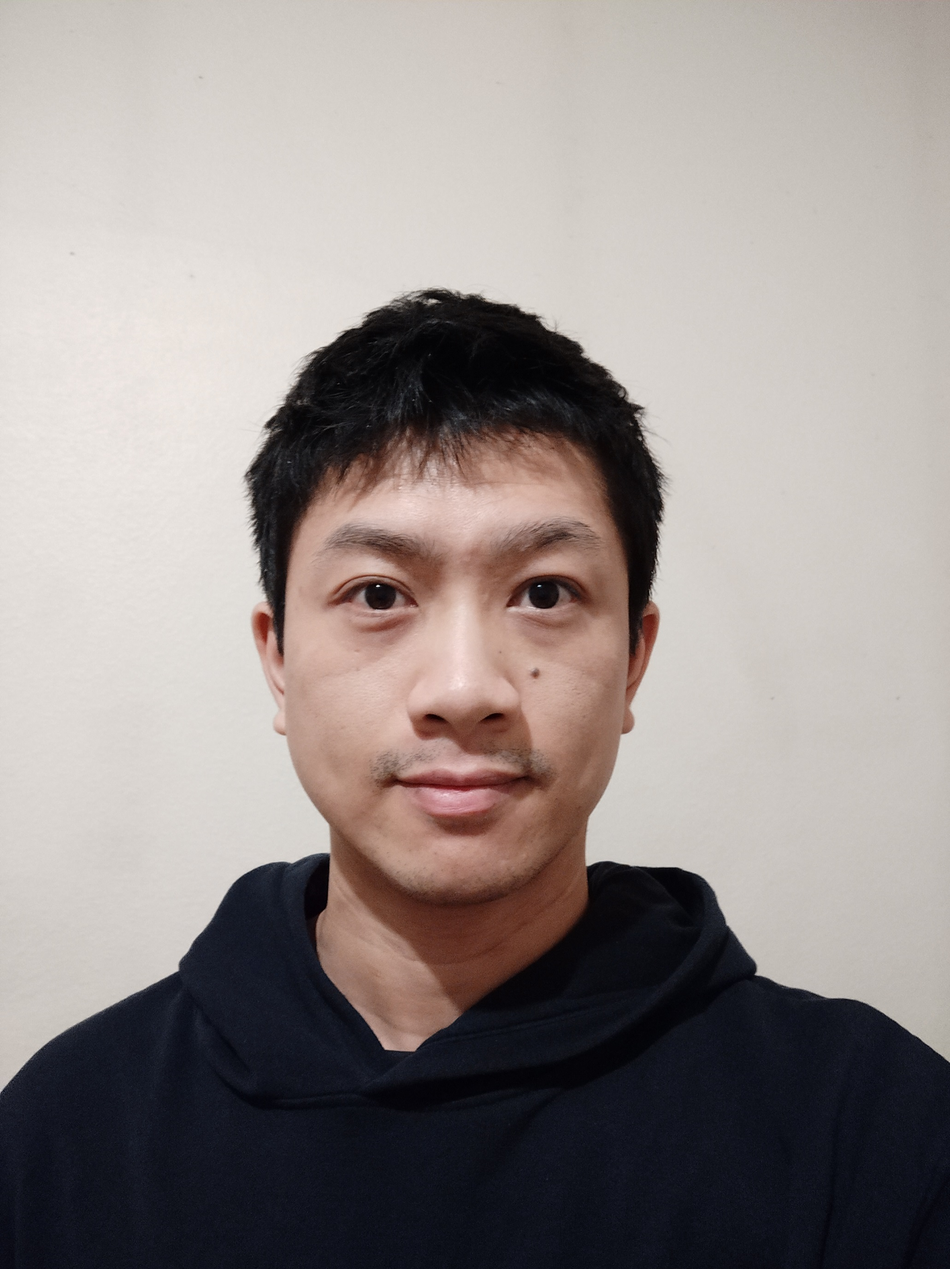
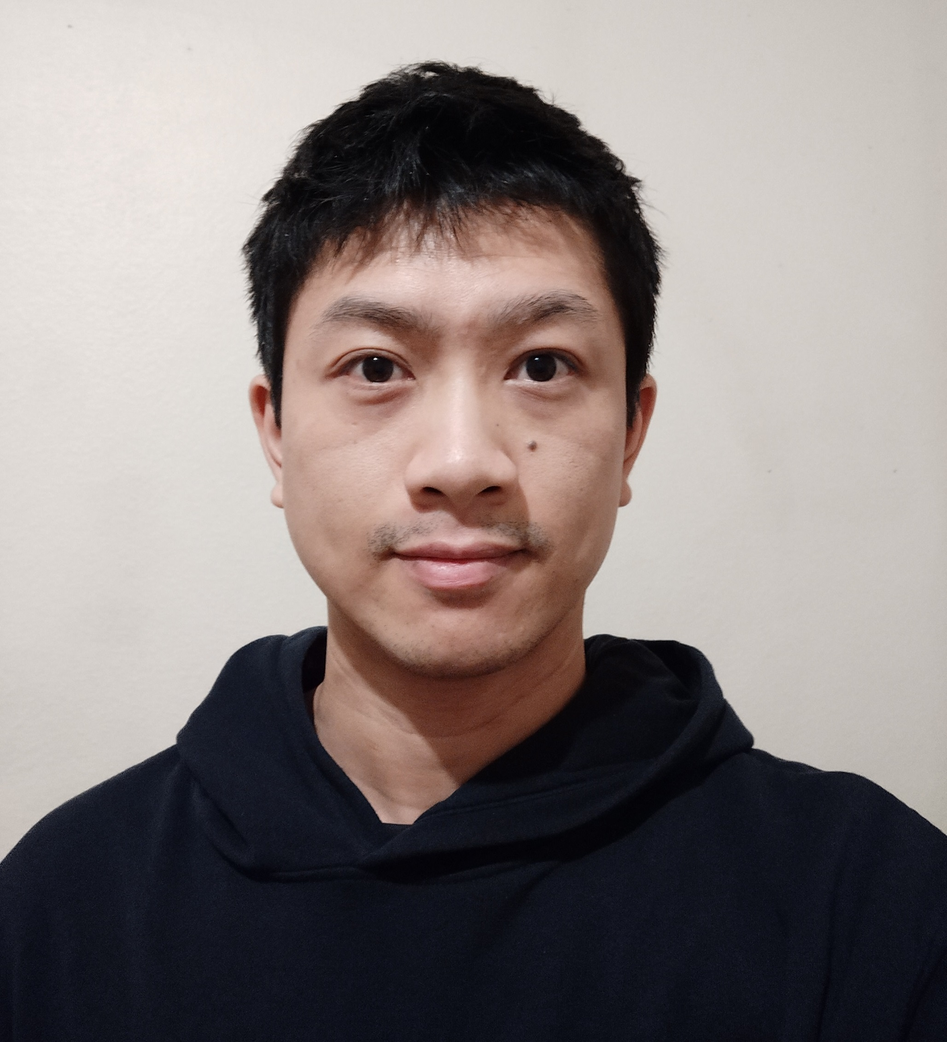
fix: responsiveness of the photo

Changed region(s): [[0.0, 0.0619, 1.0, 0.8669], [0.6226, 0.0, 1.0, 0.0619], [0.0, 0.0, 0.2179, 0.0929]]

diff --git a/src/components/photo.tsx b/src/components/photo.tsx
@@ -1,28 +1,43 @@
-import { StaticImage } from "gatsby-plugin-image"
 import React from "react"
-import { breakpointValues } from "../theme/breakpoints"
+import styled from "styled-components"
+import breakpoints from "../theme/breakpoints"
 import shadow from "../theme/shadow"
-import useScreenSize from "./custom-hooks/use-screen-size"
+import image from "../images/photo-pro.jpg"
+import { useLanguage } from "./provider-language"
+import { PageContent } from "../types/types"
+import shapes from "../theme/shapes"
 
-export default function Photo() {
-  const screenWidth = useScreenSize().width
-
-  return (
-    <React.Fragment>
-      <StaticImage src="../images/photo-pro.jpg" alt="photo of Truong Huy" style={style_image(screenWidth)} />
-    </React.Fragment>
-  )
+type PhotoProps = {
+  primaryContent: boolean
 }
 
-const style_image = (screenWidth: number) => {
-  const display = screenWidth >= breakpointValues.lg ? "none" : "flex"
-  const size = "180px"
-  return {
-    margin: "auto",
-    width: size,
-    height: size,
-    borderRadius: "6px",
-    boxShadow: shadow[2],
-    display,
+export default function Photo({ primaryContent }: PhotoProps) {
+  const lang = useLanguage()
+
+  return <Img src={image} alt={content.alt[lang]} primaryContent={primaryContent} />
+}
+
+const content: PageContent = {
+  alt: {
+    fr: "photo de Truong Huy",
+    en: "photo of Truong Huy",
+  },
+}
+
+type ImgProps = {
+  primaryContent: boolean
+}
+
+const Img = styled.img<ImgProps>`
+  width: 180px;
+  height: 200px;
+  display: ${(props) => (props.primaryContent ? "flex" : "none")};
+  border-radius: ${shapes.borderRadius};
+  box-shadow: ${shadow[2]};
+  border: 1px solid white;
+  ${breakpoints.lg} {
+    width: 200px;
+    height: 220px;
+    display: ${(props) => (props.primaryContent ? "none" : "flex")};
   }
-}
+`

diff --git a/src/components/header.tsx b/src/components/header.tsx
@@ -1,7 +1,7 @@
 import React from "react"
 import styled from "styled-components"
 import fullfillNonDefaultLanguageFields from "../functions/fulfill-non-default-language-fields"
-import { PageContent } from "../types"
+import { PageContent } from "../types/types"
 import SwitchLanguage from "./switch-language"
 import ButtonThemeMode from "./button-theme-mode"
 import Photo from "./photo"
@@ -33,7 +33,7 @@ export default function Header() {
         <H1>{content.title[lang]}</H1>
         <H2>{content.subtitle[lang]}</H2>
       </GroupedTitles>
-      <Photo />
+      <Photo primaryContent={true}/>
     </Container>
   )
 }
@@ -48,7 +48,7 @@ const Container = styled.header`
   padding: 16px;
   border-radius: ${shapes.borderRadius};
   box-shadow: ${shadow[2]};
-  ${breakpoints.md} {
+  ${breakpoints.sm} {
     flex-flow: row-reverse nowrap;
     justify-content: stretch;
   }
@@ -58,7 +58,7 @@ const GroupedButtons = styled.div`
   flex-flow: row nowrap;
   align-items: center;
   gap: 8px;
-  ${breakpoints.md} {
+  ${breakpoints.sm} {
     align-self: flex-start;
   }
 `

diff --git a/src/pages/index.tsx b/src/pages/index.tsx
@@ -9,12 +9,12 @@ import Education from "../components/education"
 import Experience from "../components/experience"
 import Hobbies from "../components/hobbies"
 import Header from "../components/header"
-import PhotoWideScreen from "../components/photo-wide-screen"
 import styled from "styled-components"
 import palette from "../theme/palette"
 import shapes from "../theme/shapes"
 import shadow from "../theme/shadow"
 import breakpoints from "../theme/breakpoints"
+import Photo from "../components/photo"
 
 export default function IndexPage({}: PageProps) {
   return (
@@ -28,7 +28,7 @@ export default function IndexPage({}: PageProps) {
           <Skills />
         </PrimaryContent>
         <SecondaryContent>
-          <PhotoWideScreen />
+          <Photo primaryContent={false}/>
           <PersonalInformations />
           <Education />
           <Hobbies />

diff --git a/src/components/hobbies.tsx b/src/components/hobbies.tsx
@@ -1,7 +1,7 @@
 import React from "react"
 import styled from "styled-components"
 import fullfillNonDefaultLanguageFields from "../functions/fulfill-non-default-language-fields"
-import { PageContent } from "../types"
+import { PageContent } from "../types/types"
 import FieldWithIcon from "./field-with-icon"
 import { useLanguage } from "./provider-language"
 

diff --git a/src/types/types-assets.d.ts b/src/types/types-assets.d.ts
@@ -1,0 +1,1 @@
+declare module "*.jpg"
